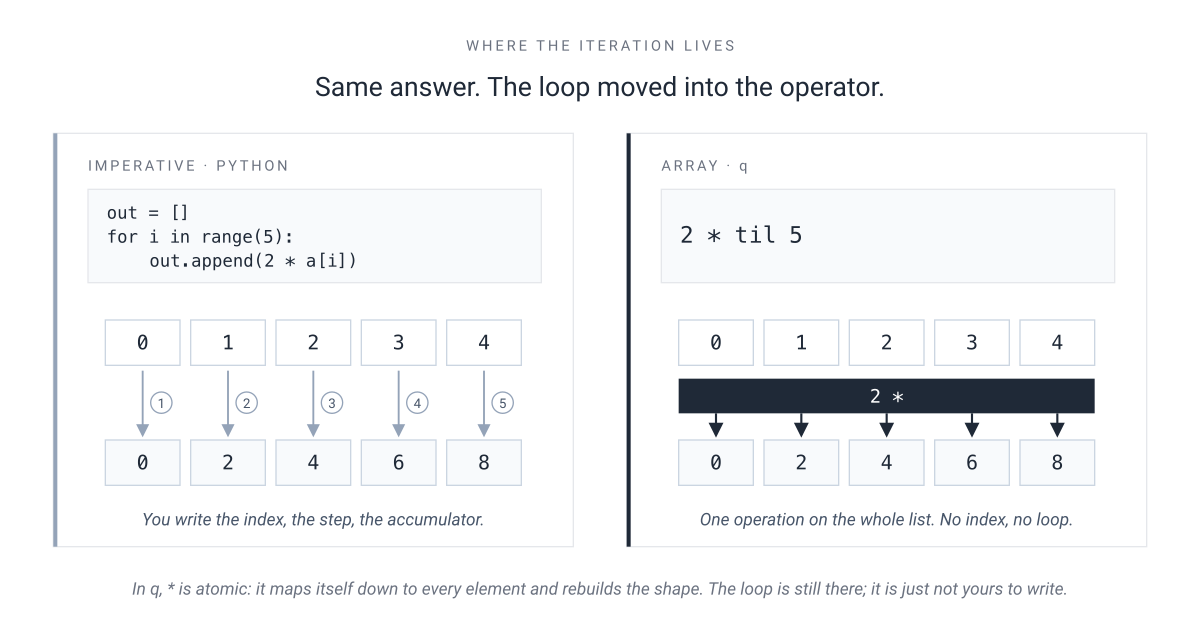
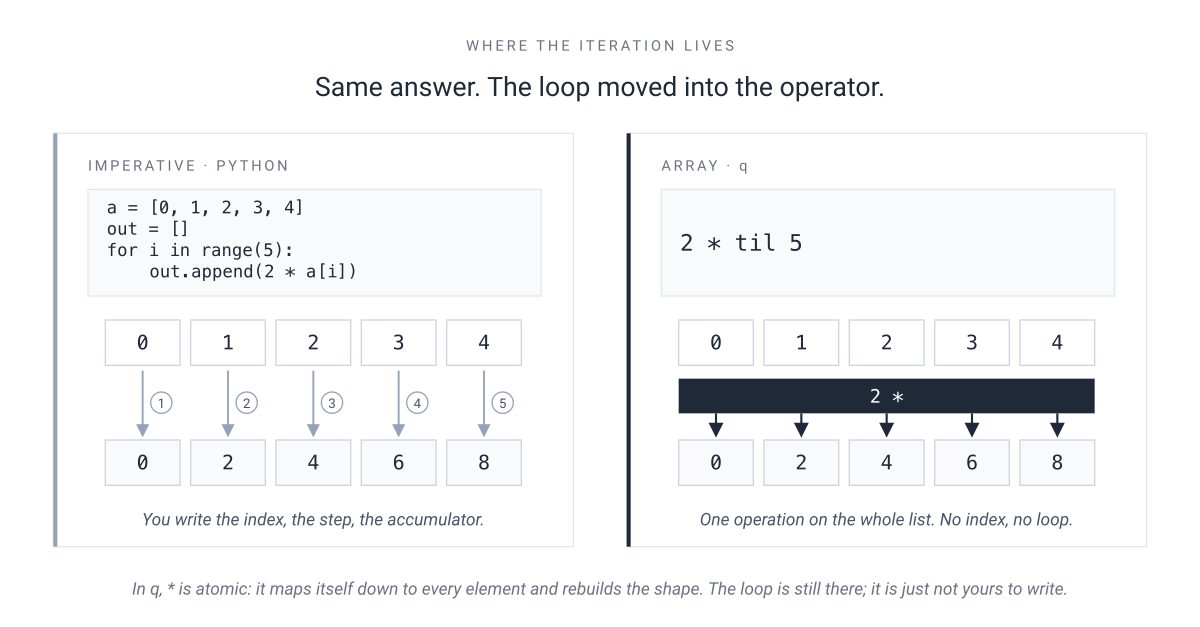
writings/01: act on Codex review (standard + adversarial)
Standard light pass (gpt-5.6-luna, high): "Articles 2-5 are drafted" is false
until #19 (article 4) merges -> resolved by merge order, no text change.

Adversarial pass (CODEX_POLICY_OVERRIDE=user-requested-adversarial-review):
- "no performance cliff at the sizes you test on" -> no qualitative
  performance statement about q (Clause 9 caution). The p# line stays: it
  reports KX's own documentation, not a measurement.
- "every serious defect was a claim, not code" -> "got past a green build";
  add lesson 05's tie bug as recent evidence (article, figure 3, LinkedIn).
- Figure 3 / LinkedIn: "published numbers recompute" narrowed to the
  evaluation's key numbers, which is what verify-eval-run actually checks.
- Primer: say what `a` is; figure 1 now shows `a = [0, 1, 2, 3, 4]` (runs,
  prints [0, 2, 4, 6, 8]).

Claude-Session: https://claude.ai/code/session_01PtEeakS7v3dxuvGTPz8cdi

Changed region(s): [[0.0925, 0.303, 0.3083, 0.4545], [0.555, 0.3636, 0.6783, 0.3939]]

diff --git a/writings/01-array-thinking-learning-in-public.md b/writings/01-array-thinking-learning-in-public.md
@@ -18,7 +18,8 @@ actually costs once you commit to it.
 If you have never met an array language, here is the whole idea in three code blocks.
 
 In most languages you ask for work one element at a time. You write the loop, name the index, step
-through, and collect the results. The reflex, in Python:
+through, and collect the results. The reflex, in Python
+(with `a` holding the numbers 0 to 4):
 
 ```python
 out = []
@@ -58,8 +59,8 @@ Most "learn an array language" material teaches syntax. Syntax is not the hard p
 is **unlearning the loop** — and the reason that is hard is that nothing forces it.
 
 You can write q for months with `do[]`, `while[]`, an index variable and an accumulator. It works.
-The answers are correct. There is no error, no warning, no performance cliff at the sizes you test
-on. A language comfortable enough to let you stay imperative will not teach you to stop being
+The answers are correct. There is no error and no warning;
+nothing in the language pushes back. A language comfortable enough to let you stay imperative will not teach you to stop being
 imperative.
 
 So: **J as a short laboratory, then q as the destination.** J is where the shift is unavoidable —
@@ -130,7 +131,8 @@ authority of a code block.
 Here is the thing I did not expect, and it is the main reason this article exists.
 
 `make verify` proves my *code* runs. It says nothing about whether my *claims* are true. And every
-serious defect in this project so far has been a claim, not a line of code.
+serious defect in this project so far has got past a green build — almost always because what was
+wrong was a claim, not a failing line of code.
 
 Four, in order of discovery:
 
@@ -160,9 +162,15 @@ hardest** — it is precisely the one that gets the least scrutiny, because you 
 Second, **prior work does not protect you if nothing routes you back to it.** A verified finding
 filed in a document nobody re-reads is indistinguishable from a finding never made.
 
-![Two columns. Code is covered by make verify: examples re-run, outputs diffed, nightly CI; it fails loudly. Claims have nothing that runs them, and account for all four serious defects so far; they fail silently. Below: re-read governing documents every milestone, and recompute published numbers from committed artifacts.](figures/01/figure-3-what-verification-covers.svg)
+![Two columns. Code is covered by make verify: examples re-run, outputs diffed, nightly CI; it fails loudly. Claims have nothing that runs them; every serious defect so far was one of these, and they fail silently. Below: re-read governing documents every milestone, and recompute the evaluation's key numbers from committed artifacts.](figures/01/figure-3-what-verification-covers.svg)
 
 *Figure 3. Code fails loudly. Claims fail silently.*
+
+It has happened again since. In September an independent review of lesson 05 found a sentence
+calling a loop "order-proof" that was true on every input the lesson used and false on one it
+didn't — two quotes at the same timestamp. `make verify` was green throughout: it proves the outputs
+on the page are real, not that a sentence with "always" in it generalises. That one has its own
+story in article 4.
 
 So the repo now has a mandatory per-milestone step to re-read its own governing documents against
 reality, and part of the published evaluation has a `make` target that recomputes it from committed

diff --git a/writings/01-linkedin.md b/writings/01-linkedin.md
@@ -15,12 +15,13 @@ it won't bend on: every code example runs under `make verify`, and printed outpu
 from the real interpreters rather than typed by hand.
 
 What surprised me is that code verification catches the smaller share of the problem. Every
-serious defect so far has been a claim rather than a line of code: a CI check that went green
+serious defect so far got past a green build, because what was wrong was a claim, not a failing
+line of code: a CI check that went green
 without checking anything, contributor instructions that had quietly gone stale, and one
 published evaluation finding I had to retract, even though my own notes had recorded the
 correction days before. The fixes were procedural: re-read the governing documents at every
-milestone, and make published numbers recompute from committed artifacts so the build fails
-if they drift.
+milestone, and make the evaluation's key numbers recompute from committed artifacts so the
+build fails if they drift.
 
 The first article covers the project, the rules it runs under, and what learning in public
 costs once you commit to publishing null results and retractions with the same care as
